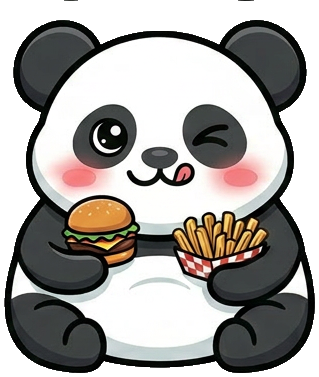
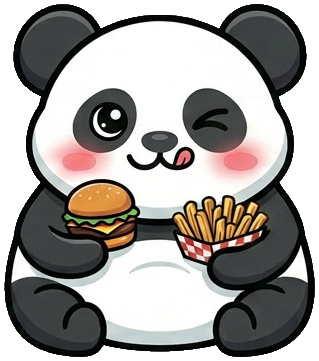
Add click-to-cycle Eugene, post celebration, and clean panda art
Replace the panda PNGs with re-extracted art that drops the stray black
slivers above the ears (web and mobile).

Make two Eugene instances interactive: the login brand-panel mascot and the
feed-rail empty-state panda now cycle through all seven moods on click, each
with a short speech-bubble line. The wrapper is a real button with an
aria-label, the bubble line lives in an aria-live region, and swaps animate
with a scale bounce that respects reduced motion.

On a successful post, show a non-blocking cheering-Eugene pop-in at the
bottom-left over the map, replacing the old success toast. It self-dismisses
in ~3.5s, never steals focus, ignores pointer events, and springs in / fades
out.

diff --git a/web/src/styles/components.css b/web/src/styles/components.css
@@ -644,3 +644,153 @@
   border-color: rgba(74, 53, 45, 0.25);
   border-top-color: var(--coral);
 }
+
+/* ============================================================
+   Eugene interactions — click-to-cycle mascot + post celebration
+   (self-contained section; kept apart to avoid merge friction)
+   ============================================================ */
+
+.eugene-cycle {
+  position: relative;
+  width: 100%;
+  height: 100%;
+  display: flex;
+  align-items: center;
+  justify-content: center;
+}
+
+.eugene-cycle-btn {
+  appearance: none;
+  border: 0;
+  margin: 0;
+  padding: 0;
+  background: transparent;
+  cursor: pointer;
+  width: 100%;
+  height: 100%;
+  display: flex;
+  align-items: center;
+  justify-content: center;
+  border-radius: 50%;
+}
+.empty-state .eugene-cycle-btn:focus-visible {
+  outline: 3px solid var(--coral);
+  outline-offset: 3px;
+}
+.brand-mascot .eugene-cycle-btn:focus-visible {
+  outline: 3px solid #fff;
+  outline-offset: 3px;
+}
+.eugene-cycle-btn img {
+  animation: eugene-pop 0.32s ease;
+}
+
+.eugene-bubble {
+  position: absolute;
+  bottom: calc(100% + 12px);
+  left: 50%;
+  transform: translateX(-50%);
+  z-index: 3;
+  width: max-content;
+  max-width: 220px;
+  padding: 8px 13px;
+  background: #fff;
+  color: var(--text);
+  border: 1px solid var(--border);
+  border-radius: 14px;
+  box-shadow: var(--shadow-menu);
+  font-family: var(--font-body);
+  font-size: 13px;
+  font-weight: 600;
+  line-height: 1.35;
+  text-align: center;
+  animation: eugene-bubble-in 0.28s ease;
+}
+.eugene-bubble::before {
+  content: '';
+  position: absolute;
+  top: 100%;
+  left: 50%;
+  transform: translateX(-50%);
+  border: 8px solid transparent;
+  border-top-color: var(--border);
+}
+.eugene-bubble::after {
+  content: '';
+  position: absolute;
+  top: 100%;
+  left: 50%;
+  transform: translateX(-50%);
+  margin-top: -1.5px;
+  border: 7px solid transparent;
+  border-top-color: #fff;
+}
+
+@keyframes eugene-pop {
+  0% {
+    transform: scale(0.82);
+  }
+  55% {
+    transform: scale(1.06);
+  }
+  100% {
+    transform: scale(1);
+  }
+}
+@keyframes eugene-bubble-in {
+  from {
+    opacity: 0;
+    transform: translateX(-50%) translateY(4px) scale(0.96);
+  }
+  to {
+    opacity: 1;
+    transform: translateX(-50%) translateY(0) scale(1);
+  }
+}
+
+.eugene-celebrate {
+  position: absolute;
+  left: 20px;
+  bottom: 20px;
+  z-index: 20;
+  pointer-events: none;
+  display: flex;
+  align-items: center;
+  gap: 12px;
+  max-width: 300px;
+  padding: 12px 16px 12px 12px;
+  background: #fff;
+  border: 1px solid var(--border);
+  border-radius: 18px;
+  box-shadow: var(--shadow-menu);
+  animation: eugene-celebrate-in 0.42s cubic-bezier(0.18, 0.9, 0.32, 1.2);
+  transition: opacity 0.32s ease, transform 0.32s ease;
+}
+.eugene-celebrate.leaving {
+  opacity: 0;
+  transform: translateY(6px);
+}
+.eugene-celebrate-img {
+  width: 54px;
+  height: 54px;
+  flex-shrink: 0;
+  object-fit: contain;
+  filter: drop-shadow(0 6px 12px rgba(0, 0, 0, 0.18));
+}
+.eugene-celebrate-msg {
+  font-family: var(--font-body);
+  font-weight: 600;
+  font-size: 14px;
+  line-height: 1.3;
+  color: var(--text);
+}
+@keyframes eugene-celebrate-in {
+  from {
+    opacity: 0;
+    transform: translateY(16px) scale(0.9);
+  }
+  to {
+    opacity: 1;
+    transform: translateY(0) scale(1);
+  }
+}

diff --git a/web/src/components/EugeneCycle.tsx b/web/src/components/EugeneCycle.tsx
@@ -1,0 +1,54 @@
+import { useState } from 'react';
+import munching from '../assets/eugene/munching.png';
+import waving from '../assets/eugene/waving.png';
+import winking from '../assets/eugene/winking.png';
+import cheering from '../assets/eugene/cheering.png';
+import starstruck from '../assets/eugene/starstruck.png';
+import silly from '../assets/eugene/silly.png';
+import crying from '../assets/eugene/crying.png';
+
+interface Mood {
+  key: string;
+  src: string;
+  line: string;
+}
+
+// Eugene's seven moods, in cycle order. Each carries one short line in his voice.
+const MOODS: Mood[] = [
+  { key: 'munching', src: munching, line: 'mmf. quality control.' },
+  { key: 'waving', src: waving, line: 'oh hey, you made it.' },
+  { key: 'winking', src: winking, line: 'psst — i know where the good stuff is.' },
+  { key: 'cheering', src: cheering, line: 'FREE FOOD!' },
+  { key: 'starstruck', src: starstruck, line: 'is that... pizza?' },
+  { key: 'silly', src: silly, line: 'you saw nothing.' },
+  { key: 'crying', src: crying, line: 'someone post something. please.' },
+];
+
+interface EugeneCycleProps {
+  imgClassName: string;
+  start?: string;
+}
+
+// A click-to-cycle Eugene: a real button wraps the art, the current mood's line
+// lives in a polite live region so cycling is announced to screen readers.
+export function EugeneCycle({ imgClassName, start = 'munching' }: EugeneCycleProps) {
+  const startIndex = Math.max(0, MOODS.findIndex((m) => m.key === start));
+  const [index, setIndex] = useState(startIndex);
+  const mood = MOODS[index];
+
+  return (
+    <div className="eugene-cycle">
+      <span className="eugene-bubble" aria-live="polite">
+        {mood.line}
+      </span>
+      <button
+        type="button"
+        className="eugene-cycle-btn"
+        aria-label="Eugene the panda — click for another mood"
+        onClick={() => setIndex((i) => (i + 1) % MOODS.length)}
+      >
+        <img key={mood.key} className={imgClassName} src={mood.src} alt="" />
+      </button>
+    </div>
+  );
+}

diff --git a/web/src/components/EugeneCelebration.tsx b/web/src/components/EugeneCelebration.tsx
@@ -1,0 +1,30 @@
+import { useEffect, useState } from 'react';
+import cheering from '../assets/eugene/cheering.png';
+
+interface EugeneCelebrationProps {
+  message: string;
+  onDone: () => void;
+}
+
+// A non-blocking Eugene pop-in shown when a drop is posted. It sits bottom-left
+// over the map, never steals focus, ignores pointer events, and self-dismisses:
+// spring in, hold, then fade out just before it unmounts.
+export function EugeneCelebration({ message, onDone }: EugeneCelebrationProps) {
+  const [leaving, setLeaving] = useState(false);
+
+  useEffect(() => {
+    const fade = window.setTimeout(() => setLeaving(true), 3150);
+    const done = window.setTimeout(onDone, 3500);
+    return () => {
+      window.clearTimeout(fade);
+      window.clearTimeout(done);
+    };
+  }, [onDone]);
+
+  return (
+    <div className={`eugene-celebrate${leaving ? ' leaving' : ''}`} role="status" aria-live="polite">
+      <img className="eugene-celebrate-img" src={cheering} alt="Eugene the panda cheering" />
+      <span className="eugene-celebrate-msg">{message}</span>
+    </div>
+  );
+}

diff --git a/web/src/pages/DashboardPage.tsx b/web/src/pages/DashboardPage.tsx
@@ -1,4 +1,4 @@
-import { useEffect, useMemo, useState } from 'react';
+import { useCallback, useEffect, useMemo, useState } from 'react';
 import { TopBar } from '../features/dashboard/TopBar';
 import { FeedRail } from '../features/dashboard/FeedRail';
 import { CampusMap } from '../features/dashboard/CampusMap';
@@ -6,6 +6,7 @@ import { MapboxMap } from '../features/dashboard/MapboxMap';
 import { DetailPanel } from '../features/dashboard/DetailPanel';
 import { PostFoodModal } from '../features/post/PostFoodModal';
 import { SettingsModal } from '../features/settings/SettingsModal';
+import { EugeneCelebration } from '../components/EugeneCelebration';
 import type { PrimaryFilter } from '../features/dashboard/FilterChips';
 import { useFeed } from '../features/feed/FeedContext';
 import { useAuth } from '../auth/AuthContext';
@@ -29,6 +30,8 @@ export function DashboardPage() {
   const [selectedId, setSelectedId] = useState<string | null>(null);
   const [postOpen, setPostOpen] = useState(false);
   const [settings, setSettings] = useState<{ open: boolean; tab: 'profile' | 'security' }>({ open: false, tab: 'profile' });
+  const [celebrate, setCelebrate] = useState<{ key: number; message: string } | null>(null);
+  const dismissCelebrate = useCallback(() => setCelebrate(null), []);
 
   const uid = user!.id;
   const mineView = filter === 'mine';
@@ -198,6 +201,9 @@ export function DashboardPage() {
               onDelete={onDelete}
             />
           )}
+          {celebrate && (
+            <EugeneCelebration key={celebrate.key} message={celebrate.message} onDone={dismissCelebrate} />
+          )}
         </div>
       </main>
 
@@ -209,7 +215,7 @@ export function DashboardPage() {
           onCreate={createPost}
           onCreated={(post) => {
             setSelectedId(post._id);
-            toast.success('Posted! Your drop is live.');
+            setCelebrate({ key: Date.now(), message: 'Drop posted! Eugene salutes you.' });
           }}
           onError={() => {}}
           onNotice={(msg) => toast.show(msg)}

diff --git a/web/src/pages/auth/BrandPanel.tsx b/web/src/pages/auth/BrandPanel.tsx
@@ -1,5 +1,6 @@
 import { useEffect, useState, type ReactNode } from 'react';
 import { Icon } from '../../components/Icon';
+import { EugeneCycle } from '../../components/EugeneCycle';
 import { getFeed } from '../../api/posts';
 
 interface BrandPanelProps {
@@ -13,6 +14,7 @@ interface BrandPanelProps {
   mascotSize?: 'lg' | 'sm';
   headlineSize?: number;
   mascot?: string;
+  interactive?: boolean;
 }
 
 // The gradient marketing panel shared by every auth screen. Eugene (the panda
@@ -28,6 +30,7 @@ export function BrandPanel({
   mascotSize = 'lg',
   headlineSize,
   mascot,
+  interactive = false,
 }: BrandPanelProps) {
   const [openSpots, setOpenSpots] = useState<number | null>(null);
 
@@ -63,7 +66,11 @@ export function BrandPanel({
   const mascotEl = (
     <div className={`brand-mascot ${mascotSize === 'sm' ? 'sm' : ''}`}>
       <div className="slot">
-        {mascot && <img className="mascot-img" src={mascot} alt="Eugene the panda" />}
+        {interactive ? (
+          <EugeneCycle imgClassName="mascot-img" start="winking" />
+        ) : (
+          mascot && <img className="mascot-img" src={mascot} alt="Eugene the panda" />
+        )}
       </div>
     </div>
   );

diff --git a/web/src/features/dashboard/FeedRail.tsx b/web/src/features/dashboard/FeedRail.tsx
@@ -3,8 +3,8 @@ import type { Post, VoteType } from '../../api/types';
 import { FoodCard } from './FoodCard';
 import { FilterChips, type PrimaryFilter } from './FilterChips';
 import { Icon } from '../../components/Icon';
+import { EugeneCycle } from '../../components/EugeneCycle';
 import type { DietaryTag } from '../../api/types';
-import crying from '../../assets/eugene/crying.png';
 
 interface EmptyState {
   title: string;
@@ -84,7 +84,7 @@ export function FeedRail(props: FeedRailProps) {
         </div>
       ) : posts.length === 0 ? (
         <div className="empty-state">
-          <img className="empty-mascot" src={crying} alt="Eugene the panda, hungry" />
+          <EugeneCycle imgClassName="empty-mascot" start="crying" />
           <div className="t">{props.empty.title}</div>
           <div className="b">{props.empty.body}</div>
           <div className="b eugene-caption">

diff --git a/web/src/pages/auth/LoginPage.tsx b/web/src/pages/auth/LoginPage.tsx
@@ -55,6 +55,7 @@ export function LoginPage() {
         showLogo
         showFoot
         align="between"
+        interactive
         mascot={winking}
         headline={
           <>